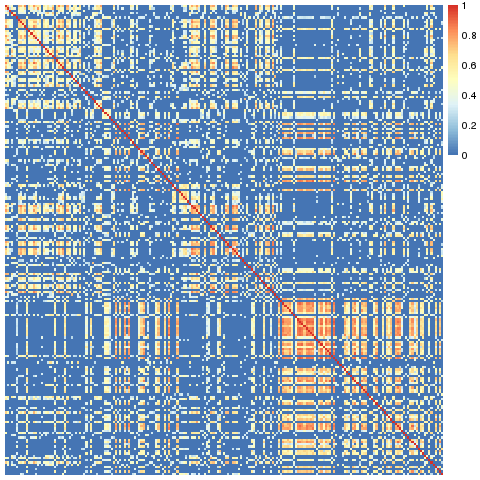
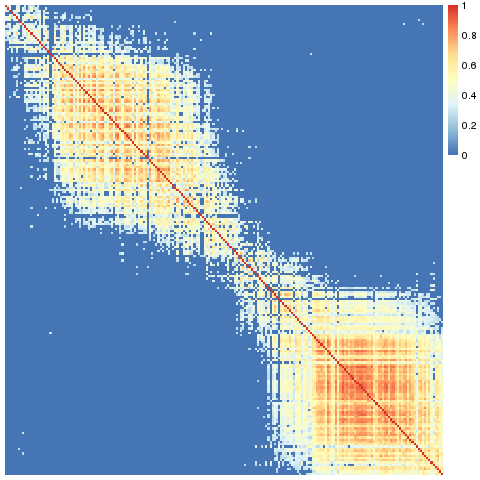
Improved wording, unclustered behavior.

diff --git a/README.rst b/README.rst
@@ -15,7 +15,7 @@ Lower-level functions are also available; see the `code documentation <slant.r>`
 The Problem
 ===========
 
-Suppose you have some data that compares some elements. Often this compares all the pairs of
+Suppose we have some data that compares some elements. Often this compares all the pairs of
 elements in a set, but sometimes pairs of elements from different sets. In the concrete example used
 below, each element is a batch of ~1000 cells, which we have the combined RNA sequencing data for.
 To load this data (and the ``slant`` functions), write:
@@ -31,7 +31,8 @@ interested in estimating how far along this process each batch is.
 
 Naively, we can compute a matrix of similarities between the batches, by correlating their RNA
 profiles. Technically, each element of this matrix tells us, for a specific pair of batches, how
-similar they are to each other.
+similar they are to each other. This is exactly the data we loaded above (after setting all negative
+correlations to zero).
 
 The next step would be to visualize this data. R helpfully gives us the ``pheatmap`` function, which
 will (by default) also cluster the data such that similar batches would be placed near each other.
@@ -75,7 +76,7 @@ visualize/analyze it.
 Consider a clustering algorithm given the numbers 1, 2, 3, 4. We expect it to group the two low
 values together, then the two high values, and combine them to a final ``( (1, 2), (3, 4) )`` tree.
 In practice, however, such algorithms don't care about the internal order within each node. That is,
-the algorithm would be just as happy giving you the tree ``( (4, 3), (1, 2) )`` which is technically
+the algorithm would be just as happy giving us the tree ``( (4, 3), (1, 2) )`` which is technically
 correct (but not the best kind of correct).
 
 Amplify this problem to hundreds, or thousands, of elements, and it is obvious in retrospect that we
@@ -103,6 +104,9 @@ In this package, this is implemented by the ``slanted_orders`` function, which r
 rows by the index of their "diagonal" column, and then the columns by the index of their "diagonal"
 rows, until the system stabilizes (this is pretty fast).
 
+The ``sheatmap`` function wraps all this (with additional functionality described below), similarly
+to how ``pheatmap`` wraps the unordered ``hclust`` functionality.
+
 .. note::
 
     * This works for any size similarity matrix, not necessarily the square symmetric matrix one
@@ -110,11 +114,9 @@ rows, until the system stabilizes (this is pretty fast).
 
     * The code actually works on the square of the data. This works OK-ish if the similarity data
       is a correlation and one takes -1 (perfect negative correlation) to be as strong a similarity
-      indicator as +1 (perfect correlation). If your data isn't like that, just make sure it is all
-      non-negative, where larger values are "more similar".
-
-The ``sheatmap`` function wraps all this (with additional functionality described below), similarly
-to how ``pheatmap`` wraps the unordered ``hclust`` functionality.
+      indicator as +1 (perfect correlation). If the data isn't like that, just make sure it is all
+      non-negative, where larger values are "more similar" - which we have done here by setting all
+      negative correlations to zero.
 
 Slanted Clustering
 ------------------
@@ -122,11 +124,11 @@ Slanted Clustering
 What if we still want to see the cluster structure of our data? The ``sheatmap``
 function provides two options to do this, with different trade-offs.
 
-Reordered CLustering
+Reordered Clustering
 ....................
 
-If you have an a-priori clustering of the data, you can pass it to ``sheatmap`` (in the same way as
-you pass it to ``pheatmap``, e.g. ``cluster_rows=hclust(...)``). In this case, ``sheatmap`` will
+If we have an a-priori clustering of the data, we can pass it to ``sheatmap`` (in the same way as
+we pass it to ``pheatmap``, e.g. ``cluster_rows=hclust(...)``). In this case, ``sheatmap`` will
 preserve the clustering, but at each node will pick the best order of the two sub-trees so that the
 end result will be the "best" slanted order.
 
@@ -143,9 +145,8 @@ And get:
 .. image:: large_reordered_sheatmap.png
 
 Better! But not a great result. We see a hint that there's a smooth transition between two states,
-but the data is still too blocky to be able to represent a continuous biological process. Still,
-this approach might be the best if one wants to visualize a given clustering in the best possible
-way.
+but the data is still too blocky to represent a continuous biological process. Still, this approach
+might be the best if one wants to visualize a given clustering in the best possible way.
 
 Ordered Clustering
 ..................
@@ -154,12 +155,12 @@ Since we don't have an a-priori clustering which we have strong evidence for, we
 ``sheatmap`` to generate a clustering for us (in the same way as for ``pheatmap``, e.g.
 ``cluster_rows=T``).
 
-In this (default) case, ``sheatmap`` will generate a clustering tree which is constrained to be
-compatible with the "ideal" slanted order. That is, writing:
+In this (default) case, ``sheatmap`` will use ``oclust`` to generate a clustering tree which is
+constrained to be compatible with the "ideal" slanted order. That is, writing:
 
 .. code:: r
 
-    sheatmap(data, show_rownames=F, show_colnames=F, clusters='replace')
+    sheatmap(data, show_rownames=F, show_colnames=F)
 
 Will give us:
 
@@ -171,7 +172,7 @@ four phases (that smoothly transition from one to the next). We can highlight th
 
 .. code:: r
 
-    sheatmap(data, show_rownames=F, show_colnames=F, clusters='replace', cutree_rows=4, cutree_cols=4)
+    sheatmap(data, show_rownames=F, show_colnames=F, cutree_rows=4, cutree_cols=4)
 
 Which gives us:
 
@@ -185,7 +186,7 @@ binary tree such that the more similar two elements are, the closer they are in 
 in ordered clustering (as implemented by ``oclust``) is that the elements are ordered, and each
 group of elements clustered under any tree node must be a contiguous range of such elements.
 
-Visually this means that if you draw the final clustering tree on top of the ordered elements, there
+Visually this means that if we draw the final clustering tree on top of the ordered elements, there
 would be no edge crossings. This makes ordered clustering a natural addition to the slanted matrix
 visualization.
 
